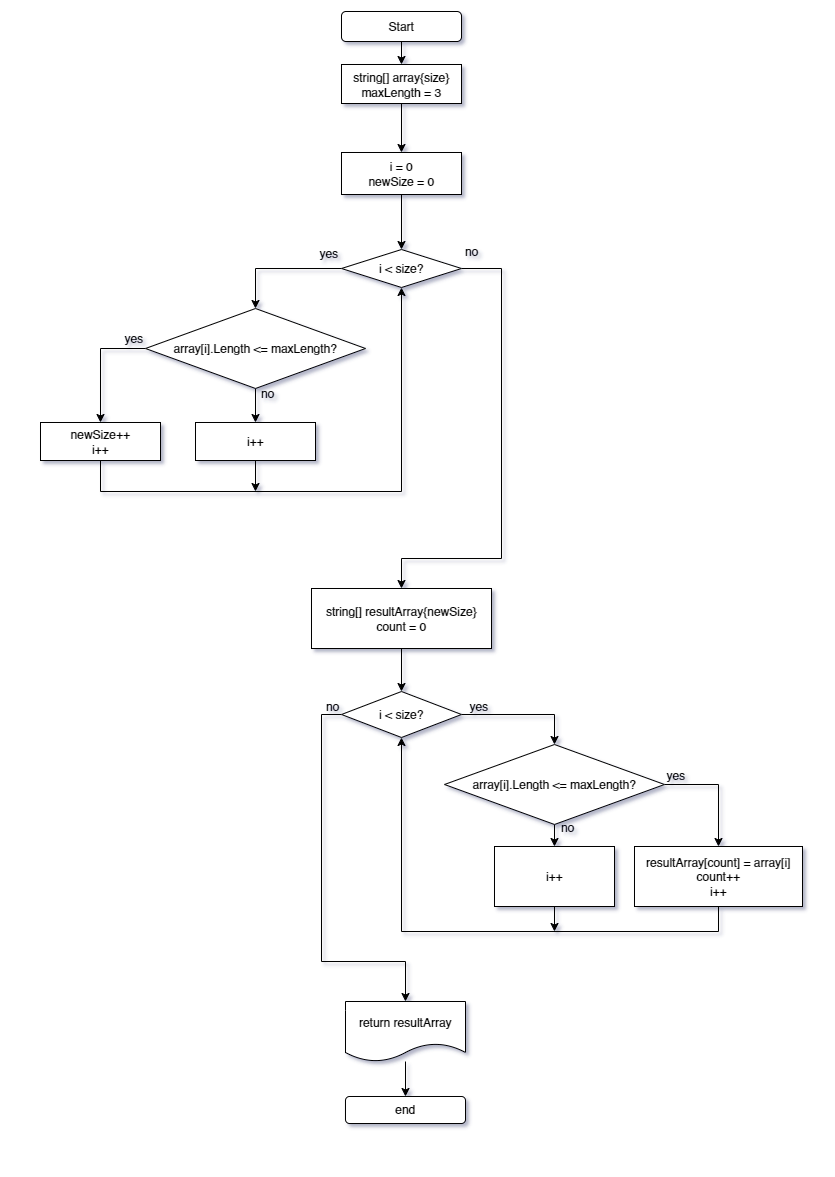
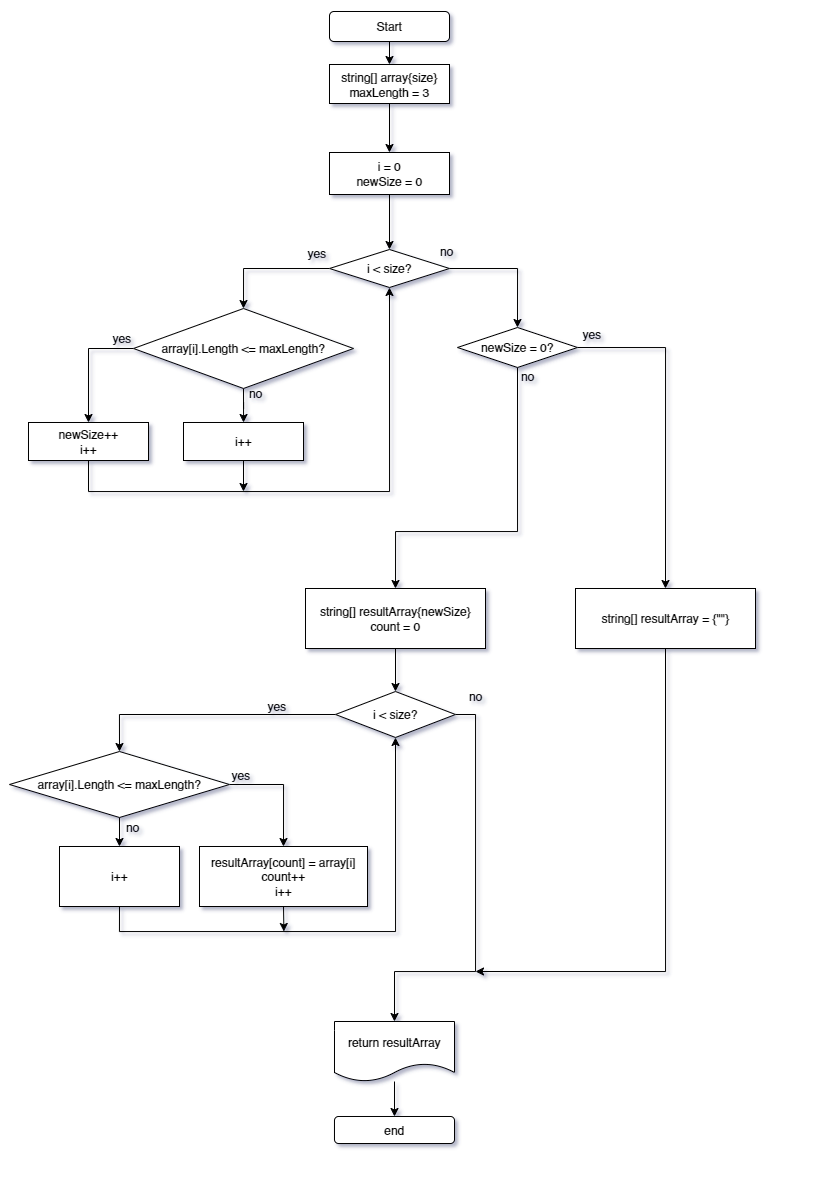
again edited code and text

diff --git a/StringFiltr/Program.cs b/StringFiltr/Program.cs
@@ -2,8 +2,13 @@
 {
     for (int i = 0; i < arr.Length; i++)
     {
-        if (i == 0) Console.Write($"[\"{arr[i]}\", ");
-        else Console.Write(i == arr.Length - 1 ? $"\"{arr[i]}\"]" : $"\"{arr[i]}\", ");
+        if (arr[i] == "" && arr.Length == 1) Console.Write("[]");
+        else
+        {
+            if (arr.Length == 1) Console.Write($"[\"{arr[i]}\"]");
+            else if (i == 0) Console.Write($"[\"{arr[i]}\", ");
+            else Console.Write(i == arr.Length - 1 ? $"\"{arr[i]}\"]" : $"\"{arr[i]}\", ");
+        }
     }
 }
 
@@ -20,18 +25,26 @@ string[] StringFilter(string[] array, int maxLength) //основная функ
         }
     }
 
-    string[] resultArr = new string[newSize];
-    for (int i = 0; i < array.Length; i++)
+    if (newSize == 0)
     {
-        if (array[i].Length <= maxLength)
-        {
-            resultArr[count++] = array[i];
-        }
+        string[] resultArray = { "" };
+        return resultArray;
     }
-    return resultArr;
+    else
+    {
+        string[] resultArray = new string[newSize];
+        for (int i = 0; i < array.Length; i++)
+        {
+            if (array[i].Length <= maxLength)
+            {
+                resultArray[count++] = array[i];
+            }
+        }
+        return resultArray;
+    }
 }
 
-string[] array = { "Один", "Два", "Три", "Четыре", ":)" }; //исходный массив со строками
+string[] array = { "Один", "Два", "ф", "ывыв", ":-)" }; //исходный массив со строками
 
 string[] result = StringFilter(array, 3);
 

diff --git a/README.md b/README.md
@@ -15,3 +15,5 @@
 Затем создается новый строковый массив размером ***size***, в который, при помощи следующего цикла, из исходного массива поэлементно копируются строки, удовлетворяющие условию.
 ![алгоритм функции](Test001.png)
     _рис. 1. Алгоритм работы функции._
+
+В алгоритм заложена проверка на отсутствие искомых элементов. В этом случае генерируется массив с одной пустой строкой для последующей обработки.
